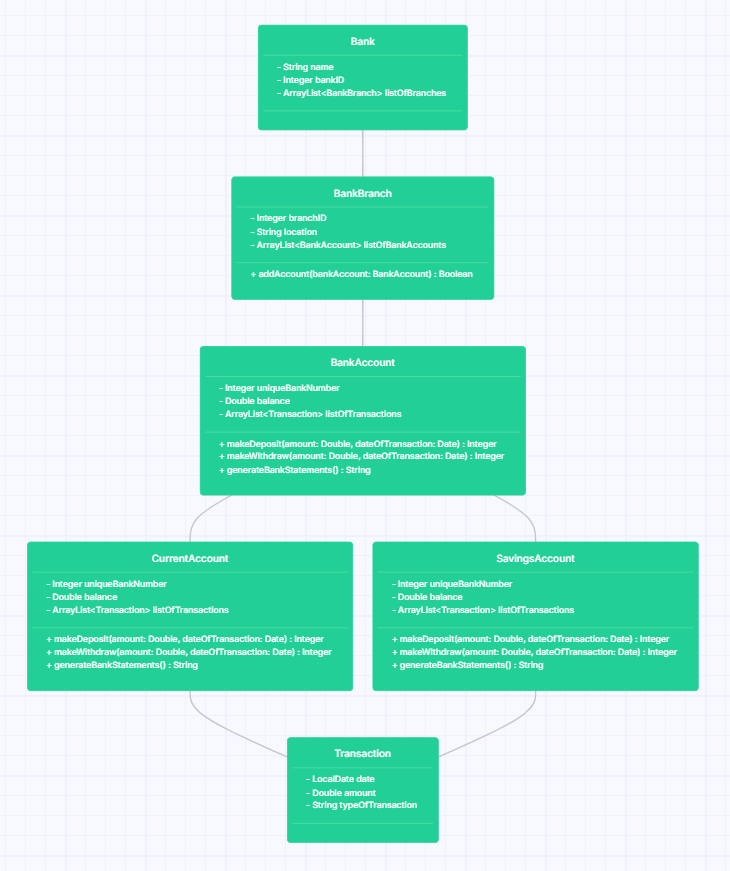
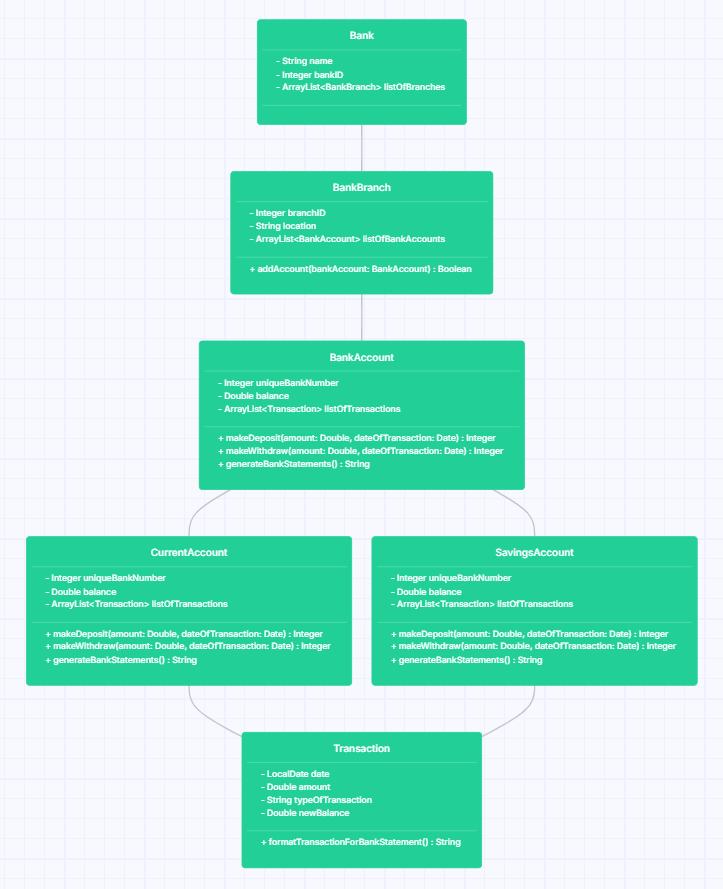
Realised that I could add "newBalance" to Transaction class when instantiating a new object, thus I would be able to format the transaction in the Transaction class. I changed the class diagram and also all the places where transactions are instansiated.

Changed region(s): [[0.0304, 0.031, 0.9737, 0.992], [0.3651, 0.0, 0.639, 0.062]]

diff --git a/src/test/java/com/booleanuk/core/BankAccountTest.java b/src/test/java/com/booleanuk/core/BankAccountTest.java
@@ -9,15 +9,15 @@ import java.util.ArrayList;
 public class BankAccountTest {
     private ArrayList<Transaction> listOfTransactions = new ArrayList<>(){{
         LocalDateTime dateTime1 = LocalDateTime.now();
-        Transaction transaction1 = new Transaction(dateTime1, 200D, "Deposit");
+        Transaction transaction1 = new Transaction(dateTime1, 200D, "Deposit", 200D);
         add(transaction1);
 
         LocalDateTime dateTime2 = dateTime1.plusHours(1);
-        Transaction transaction2 = new Transaction(dateTime2, 700D, "Deposit");
+        Transaction transaction2 = new Transaction(dateTime2, 700D, "Deposit", 900D);
         add(transaction2);
 
         LocalDateTime dateTime3 = dateTime1.plusDays(2);
-        Transaction transaction3 = new Transaction(dateTime3, -500D, "Withdraw");
+        Transaction transaction3 = new Transaction(dateTime3, -500D, "Withdraw", 400D);
         add(transaction3);
     }};
 

diff --git a/src/main/java/com/booleanuk/core/BankAccount.java b/src/main/java/com/booleanuk/core/BankAccount.java
@@ -40,7 +40,7 @@ public class BankAccount {
 
     public Double makeDeposit(Double amount, LocalDateTime dateTime){
         if((this.balance + amount) > this.balance){
-            Transaction deposit = new Transaction(dateTime, amount, "Deposit");
+            Transaction deposit = new Transaction(dateTime, amount, "Deposit", (this.balance + amount));
             this.listOfTransactions.add(deposit);
             this.balance += amount;
         }
@@ -49,7 +49,7 @@ public class BankAccount {
 
     public Double makeWithDraw(Double amount, LocalDateTime dateTime){
         if((this.balance + amount) < this.balance){
-            Transaction withdraw = new Transaction(dateTime, amount, "Withdraw");
+            Transaction withdraw = new Transaction(dateTime, amount, "Withdraw", (this.balance + amount));
             this.listOfTransactions.add(withdraw);
             this.balance += amount;
         }

diff --git a/src/main/java/com/booleanuk/core/Transaction.java b/src/main/java/com/booleanuk/core/Transaction.java
@@ -7,11 +7,13 @@ public class Transaction {
     private LocalDateTime date;
     private Double amount;
     private String typeOfTransaction;
+    private Double newBalance;
 
-    public Transaction(LocalDateTime date, Double amount, String typeOfTransaction){
+    public Transaction(LocalDateTime date, Double amount, String typeOfTransaction, Double newBalance){
         this.date = date;
         this.amount = amount;
         this.typeOfTransaction = typeOfTransaction;
+        this.newBalance = newBalance;
     }
 
     public LocalDateTime getDate() {

diff --git a/src/test/java/com/booleanuk/core/TransactionTest.java b/src/test/java/com/booleanuk/core/TransactionTest.java
@@ -1,0 +1,4 @@
+package com.booleanuk.core;
+
+public class TransactionTest {
+}
